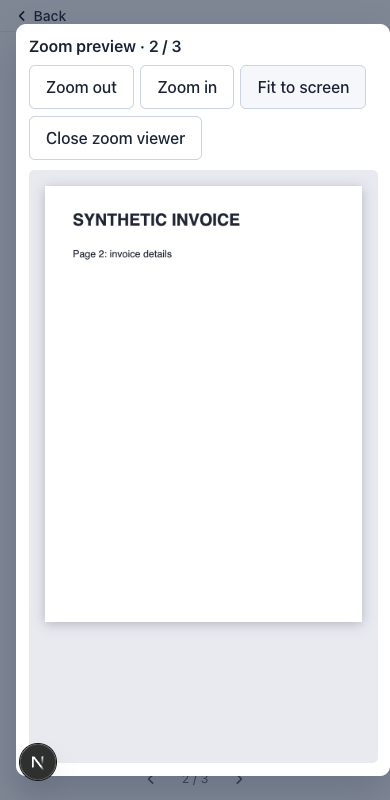
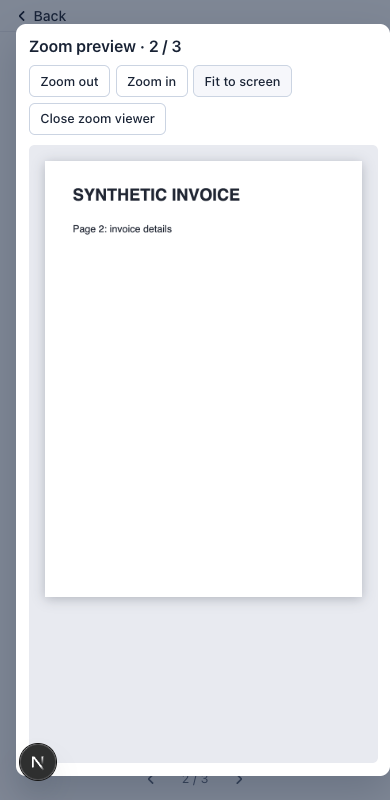
Refine preview divider and zoom controls

Changed region(s): [[0.0615, 0.0938, 0.9538, 0.3438], [0.1231, 0.7188, 0.9231, 0.7812]]

diff --git a/apps/web/app/archives/[archiveId]/library/library.module.css b/apps/web/app/archives/[archiveId]/library/library.module.css
@@ -94,9 +94,9 @@
 /* ---------- List ---------- */
 .split { flex: 1; min-block-size: 0; display: grid; grid-template-columns: minmax(0, 1fr); }
 .split[data-preview="open"] { grid-template-columns: minmax(20rem, 1fr) 12px minmax(22.5rem, var(--preview-width)); }
-.divider { position: relative; display: grid; place-items: center; cursor: col-resize; touch-action: none; background: #f3f4f7; border-inline: 1px solid var(--p-line); }
-.divider span { inline-size: 3px; block-size: 2.5rem; border-radius: 4px; background: #a6afbd; box-shadow: -4px 0 #a6afbd, 4px 0 #a6afbd; }
-.divider:hover { background: #e8edf7; }
+.divider { position: relative; display: grid; place-items: center; cursor: col-resize; touch-action: none; background: #fbfbfd; border-inline-start: 1px solid var(--p-line); }
+.divider span { inline-size: 2px; block-size: 1.75rem; border-radius: 2px; background: #b8c1ce; box-shadow: 3px 0 #b8c1ce; }
+.divider:hover { background: #f0f3f8; }
 .divider:focus-visible { outline: 3px solid var(--focus); outline-offset: -3px; z-index: 2; }
 .listPane { container-type: inline-size; overflow-y: auto; min-block-size: 0; padding: 0 .6rem 2rem; }
 /* Columns: glyph · name · type · date. Unconfirmed rows put their status across type and date. */

diff --git a/apps/web/app/archives/[archiveId]/documents/[id]/review/review.module.css b/apps/web/app/archives/[archiveId]/documents/[id]/review/review.module.css
@@ -22,7 +22,8 @@
 .zoomModal { inline-size: min(96vw, 90rem); block-size: min(94dvh, 80rem); padding: .8rem; }
 .zoomModal :global(.ui-dialog) { display: flex; flex-direction: column; block-size: 100%; min-block-size: 0; gap: .65rem; }
 .zoomModal :global(h2) { margin: 0; font-size: 1rem; }
-.zoomControls { display: flex; flex-wrap: wrap; gap: .4rem; }
+.zoomControls { display: flex; flex-wrap: wrap; gap: .35rem; }
+.zoomControls :global(.ui-button) { min-block-size: 2rem; padding: .25rem .65rem; font-size: .8rem; }
 .zoomViewport { flex: 1; min-block-size: 0; overflow: auto; display: grid; place-items: start center; padding: 1rem; background: #e8eaf0; border-radius: .35rem; }
 .zoomViewport img { max-inline-size: none; max-block-size: none; flex: none; background: #fff; box-shadow: 0 2px 12px #1b233344; }
 .zoomViewport:focus-visible { outline: 3px solid var(--focus); outline-offset: -3px; }
